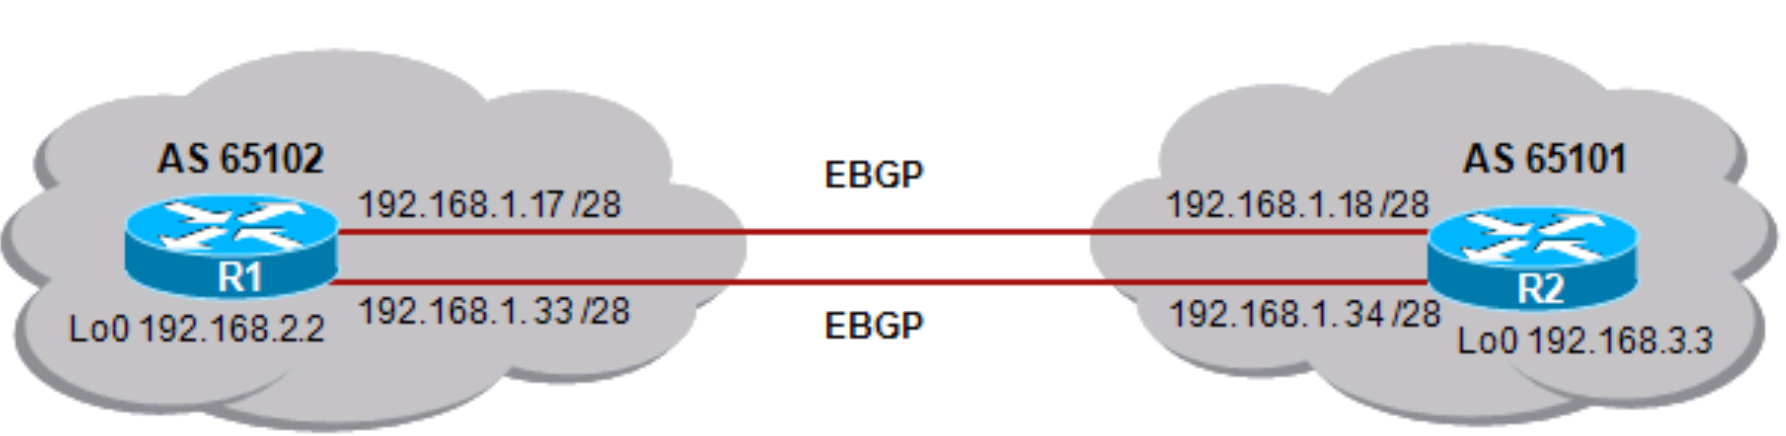
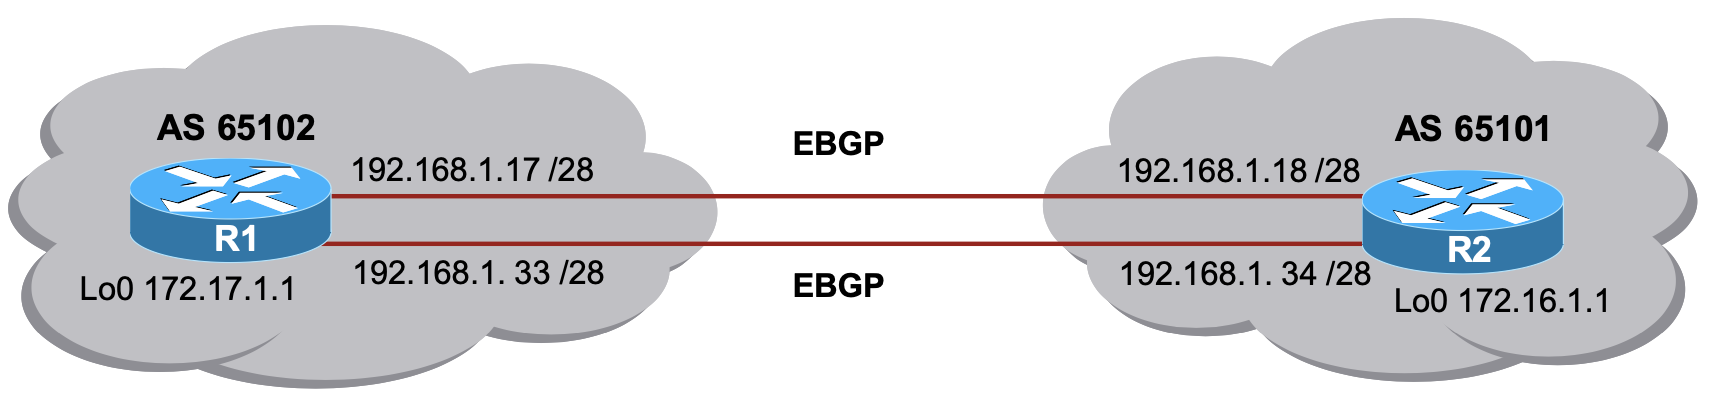
vault backup: 2025-05-06 13:15:34

Changed region(s): [[0.0, 0.0297, 1.0, 1.0], [0.4334, 0.3267, 0.5263, 0.4455]]

diff --git a/School/Distributed Systems/Guía/Protocolos/Border Gateway Protocol.md b/School/Distributed Systems/Guía/Protocolos/Border Gateway Protocol.md
@@ -34,9 +34,20 @@ Date: 2025-05-05 : 12:56
 - Problem diagram :: ![[redes2-fig10.png]]
 - El problema es que si estamos en R1 solo ponemos como neighbor a `192.168.1.18` y este se cae... mientras que si ponemos como neighbor a `192.168.1.18` y a `192.168.1.34` en número de los paquetes BGP se... :: No sirve de nada la redundancia, duplican.
 - La solución es configurar una :: Loopback.
-- Es importante recordar que como estamos en **eBGP** y se asume que las conexiones son... 
+- Es importante recordar que como estamos en **eBGP** y se asume que las conexiones son..., entonces también hay que configurar... :: Directas, ebgp-multihop.
+- En **iBGP** no es necesario una una configuración *multihop* ya que iBGP asume que las conexiones no son... y por ello se apoya de los... :: Directas, IGP.
 
-#### Solución
+#### Solución para Diagrama (en R1)
+#Q 
+- Entramos a configuración de BGP :: `router bgp 65102`.
+- Configuramos a loopback como vecino :: `neighbor 172.16.1.1 remote-as 65101`
+- Configuramos loopback para que reciba todas las updates :: `neighbor 172.16.1.1 update-source loopback 0`
+- Configuramos para que tenga un **Time To Live (TTL) de 2** :: `neigbor 172.16.1.1 ebgp-multihop 2`
+- Configuramos **rutas estáticas** para llegar a la loopback desde R1 :: `ip route 172.16.1.1 255.255.255.255 192.168.1.18` y `ip route 172.16.1.1 255.255.255.255 192.168.1.34`.
+
+### Advertising eBGP Routes to iBGP Peers
+#Q 
+
 
 
 
